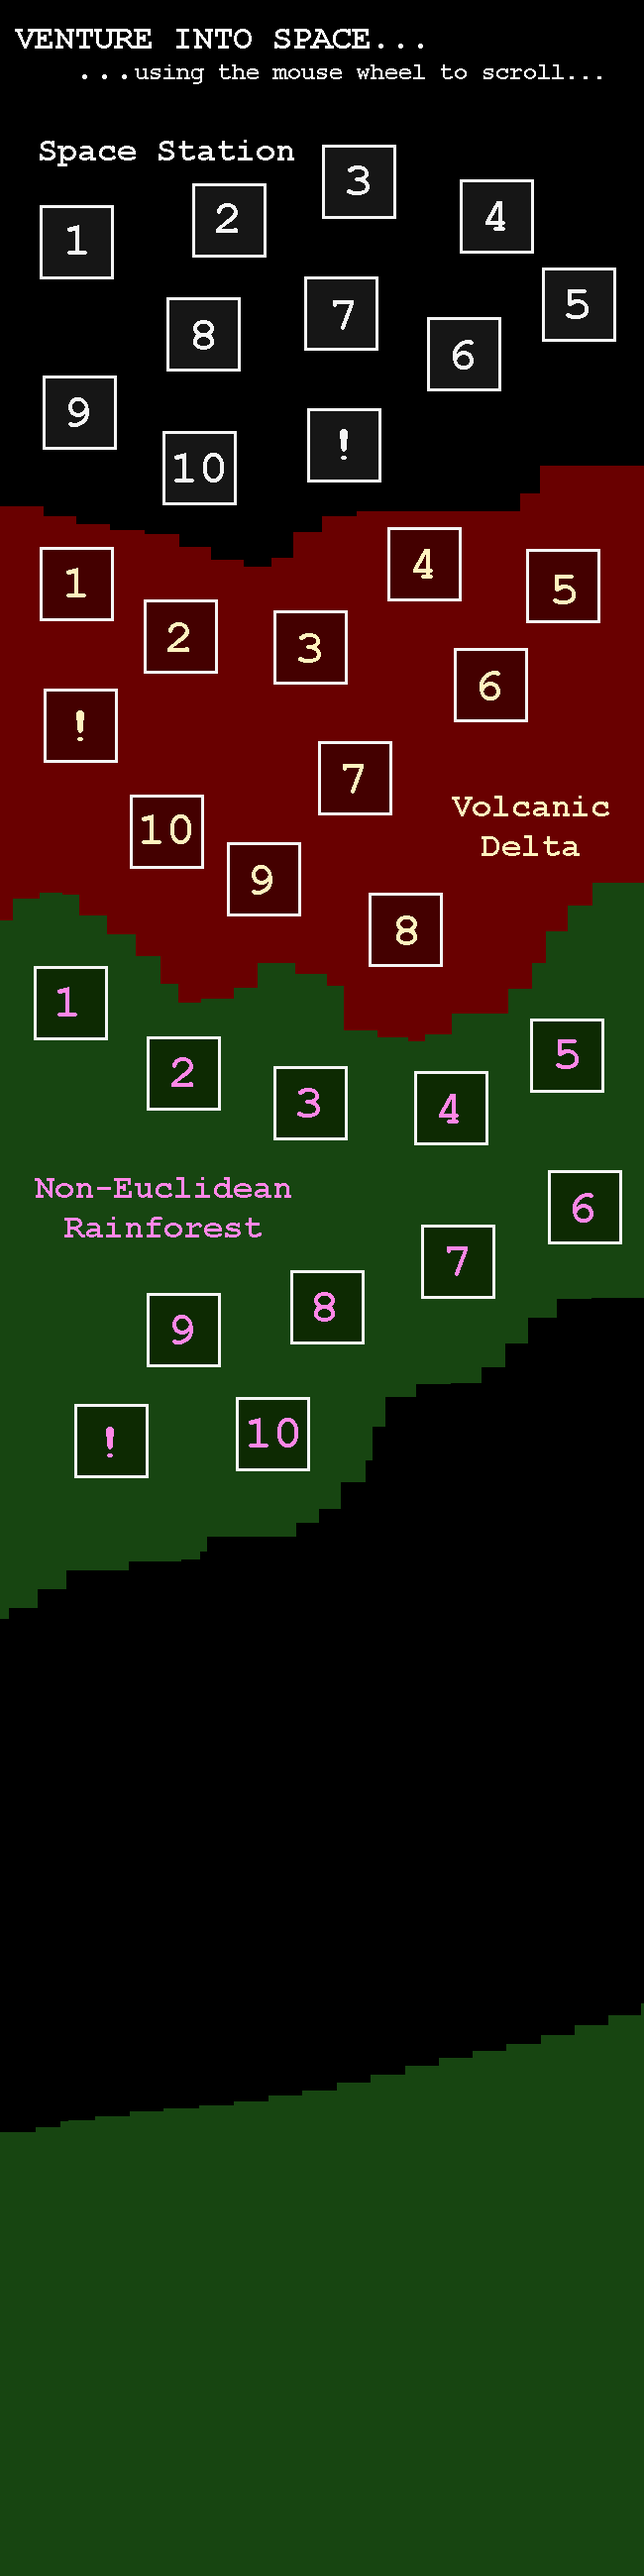
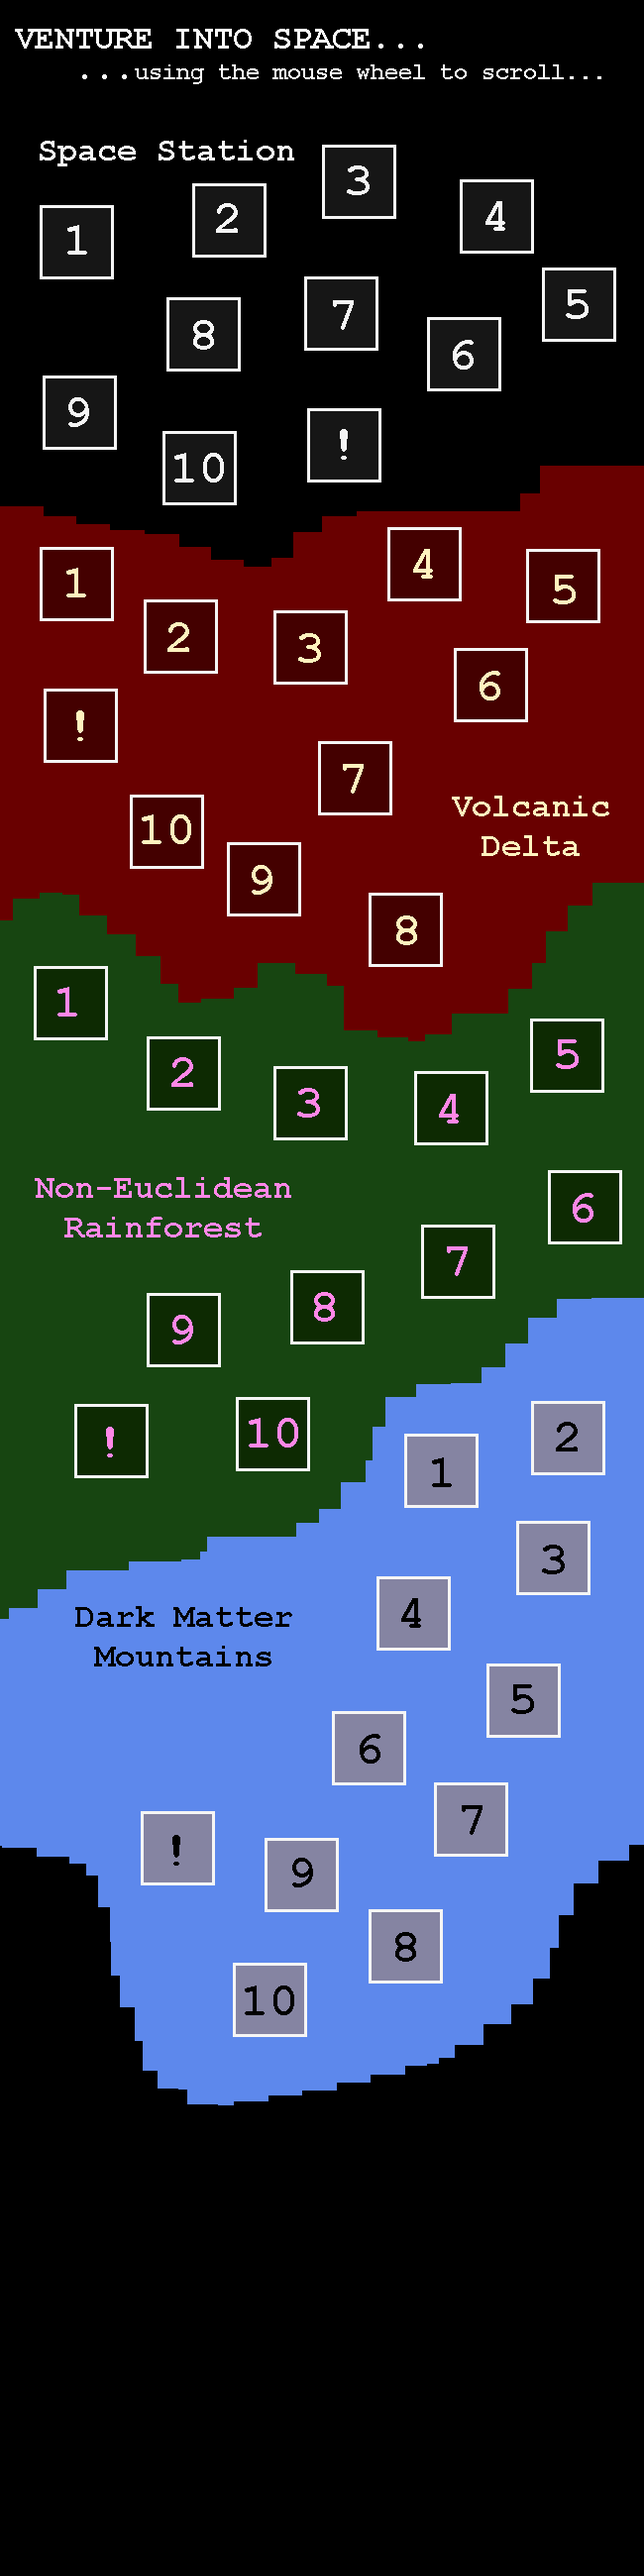
added world D

diff --git a/src/lib/premadeLevels.py b/src/lib/premadeLevels.py
@@ -589,12 +589,10 @@ C3 = level.Level(
         b.Entity(0, 0, 100, 50, (49, 87, 54)),
         b.Entity(200, 175, 250, 400, (49, 87, 54)),
         b.Entity(200, 175, 425, 225, (49, 87, 54)),
-        s.Lever(400, 325, 600, 375, "up"),
         s.Lever(0, 350, 200, 400, "up"),
         s.Teleporter(50, 475, 575, 50, 0, (144, 169, 85)),
         b.Coin(250, 600,(144, 69, 85)),
         b.Coin(450, 400,(144, 69, 85)),
-        b.Coin(400, 300,(144, 69, 85)),
         b.Coin(400, 225,(144, 69, 85)),
         b.Entity(475, 500, 650, 550, (49, 87, 54)),
         b.Entity(475, 500, 525, 650, (49, 87, 54)),
@@ -609,6 +607,8 @@ C3 = level.Level(
         b.Entity(625, 600, 650, 625, (49, 87, 54)),
         b.Entity(575, 600, 600, 625, (49, 87, 54)),
         b.Entity(600, 625, 625, 650, (49, 87, 54)),
+        b.Coin(400, 275,(144, 69, 85)),
+        s.Lever(400, 300, 600, 350, "up"),
     ],
     background = ((19, 42, 19),),
     text = "3.Rotation",
@@ -622,20 +622,18 @@ C4 = level.Level(
     levelObjects = [
         b.Entity(0, 475, 50, 650, (49, 87, 54)),
         b.Entity(600, 475, 650, 650, (49, 87, 54)),
-        b.Coin(450, 575,(144, 69, 85)),
         s.Lever(450, 275, 650, 325, "up"),
         b.Entity(0, 0, 400, 50, (49, 87, 54)),
         b.Entity(350, 0, 400, 150, (49, 87, 54)),
         s.Lever(200, 50, 250, 325, "right"),
         b.Coin(25, 250,(144, 69, 85)),
-        b.Entity(500, 0, 650, 50, (49, 87, 54)),
-        b.Coin(575, 50,(144, 69, 85)),
         s.Teleporter(325, 250, 50, 325, 0, (144, 169, 85)),
         b.Entity(0, 600, 475, 650, (49, 87, 54)),
+        b.Entity(500, 0, 650, 50, (49, 87, 54)),
     ],
     background = ((19, 42, 19),),
-    text = "4.Flip the Switch",
-    textLocation = (100, 425),
+    text = "4.Hole in One",
+    textLocation = (175, 425),
     textColor = (150, 150, 150),
 )
 C5 = level.Level(
@@ -850,10 +848,104 @@ C10 = level.Level(
 
 worldC = [C1, C2, C3, C4, C5, C6, C7, C8, C9, C10]
 
+D1 = level.Level(
+    players = [
+        p.Player(75.0, 525.0,(60, 60, 60)),
+        p.Player(75.0, 50.0,(60, 60, 60)),
+    ],
+    levelObjects = [
+        b.Entity(0, 300, 650, 350, (113, 113, 140)),
+        b.Entity(0, 550, 125, 650, (113, 113, 140)),
+        b.Entity(0, 0, 75, 175, (113, 113, 140)),
+        b.Entity(75, 0, 250, 50, (113, 113, 140)),
+        b.Entity(0, 250, 50, 300, (113, 113, 140)),
+        b.Entity(375, 350, 425, 400, (113, 113, 140)),
+        b.Entity(425, 350, 450, 450, (113, 113, 140)),
+        b.Entity(450, 350, 500, 500, (113, 113, 140)),
+        b.Entity(600, 450, 650, 600, (113, 113, 140)),
+        b.Coin(575, 350,(128, 0, 128)),
+        b.Coin(575, 275,(128, 0, 128)),
+        b.Entity(425, 225, 525, 300, (113, 113, 140)),
+        b.Entity(325, 0, 600, 50, (113, 113, 140)),
+        b.Entity(200, 475, 300, 525, (113, 113, 140)),
+        b.Entity(200, 600, 650, 650, (113, 113, 140)),
+        b.Entity(275, 475, 325, 550, (113, 113, 140)),
+        b.Entity(125, 475, 225, 650, (113, 113, 140)),
+        b.Entity(175, 50, 200, 75, (113, 113, 140)),
+        b.Entity(575, 50, 600, 75, (113, 113, 140)),
+        b.Entity(175, 50, 250, 125, (113, 113, 140)),
+        b.Entity(200, 100, 250, 200, (113, 113, 140)),
+        b.Entity(325, 125, 375, 175, (113, 113, 140)),
+        b.Entity(200, 150, 375, 200, (113, 113, 140)),
+        b.Entity(250, 0, 275, 100, (113, 113, 140)),
+        b.Entity(275, 0, 325, 25, (113, 113, 140)),
+        b.Entity(500, 350, 525, 375, (113, 113, 140)),
+        b.Entity(225, 525, 300, 600, (113, 113, 140)),
+        b.Entity(0, 525, 25, 550, (113, 113, 140)),
+        b.Entity(600, 0, 650, 150, (113, 113, 140)),
+        b.Entity(625, 150, 650, 200, (113, 113, 140)),
+    ],
+    background = (93, 136, 226),
+    text = "1.Siamese",
+    textLocation = (0, 350),
+    textColor = (30, 30, 30),
+)
+D2 = level.Level(
+    players = [
+        p.Player(50.0, 150.0,(60, 60, 60)),
+        p.Player(125.0, 575.0,(60, 60, 60)),
+    ],
+    levelObjects = [
+        b.Entity(0, 0, 50, 225, (113, 113, 140)),
+        b.Entity(125, 100, 175, 175, (113, 113, 140)),
+        b.Entity(225, 50, 300, 100, (113, 113, 140)),
+        b.Entity(250, 100, 300, 150, (113, 113, 140)),
+        b.Entity(50, 0, 650, 50, (113, 113, 140)),
+        b.Entity(50, 50, 75, 75, (113, 113, 140)),
+        b.Entity(350, 75, 375, 175, (113, 113, 140)),
+        b.Entity(375, 125, 400, 175, (113, 113, 140)),
+        b.Entity(50, 175, 650, 225, (113, 113, 140)),
+        b.Entity(450, 50, 500, 125, (113, 113, 140)),
+        b.Entity(400, 150, 575, 175, (113, 113, 140)),
+        b.Entity(575, 125, 625, 175, (113, 113, 140)),
+        b.Entity(500, 50, 525, 100, (113, 113, 140)),
+        b.Entity(500, 50, 600, 75, (113, 113, 140)),
+        b.Entity(0, 600, 200, 650, (113, 113, 140)),
+        b.Entity(0, 350, 50, 600, (113, 113, 140)),
+        s.Tar(50, 350, 75, 525, "left"),
+        b.Entity(275, 225, 375, 250, (113, 113, 140)),
+        b.Entity(275, 575, 325, 650, (113, 113, 140)),
+        b.Entity(0, 225, 175, 325, (113, 113, 140)),
+        b.Entity(150, 225, 275, 300, (113, 113, 140)),
+        b.Entity(0, 325, 150, 350, (113, 113, 140)),
+        s.Tar(325, 125, 350, 175, "right"),
+        b.Coin(550, 300,(128, 0, 128)),
+        b.Coin(625, 75,(128, 0, 128)),
+    ],
+    background = (93, 136, 226),
+    text = "2.Tar Pits",
+    textLocation = (300, 425),
+    textColor = (30, 30, 30),
+)
+D3 = level.Level()
+D4 = level.Level()
+D5 = level.Level()
+D6 = level.Level()
+D7 = level.Level()
+D8 = level.Level()
+D9 = level.Level()
+D10 = level.Level()
+
+worldD = [D1, D2, D3, D4, D5, D6, D7, D8, D9, D10]
+
+for l in worldD:
+    l.background = colorsWorldD["background"]
+
 worldInfo = [
     (worldA, levelSelectWorldA),
     (worldB, levelSelectWorldB),
     (worldC, levelSelectWorldC),
+    (worldD, levelSelectWorldD),
 ]
 
 '''

diff --git a/src/lib/gameStateInfo.py b/src/lib/gameStateInfo.py
@@ -113,6 +113,11 @@ class GameStateInfo:
     
         
     def processGameplay(self, event: pygame.event.Event):
+        # For multiple players, check if everyone is stopped.
+        allStopped = True
+        for p in self.level.players:
+            if p.direction != "stop":
+                allStopped = False
         # Clicking the mouse
         if event.type == pygame.MOUSEBUTTONDOWN:
             if event.button == 2:
@@ -124,11 +129,10 @@ class GameStateInfo:
                 pass
             elif event.key == pygame.K_r:
                 self.level.reset()
-            elif event.key in [pygame.K_DOWN, pygame.K_UP, pygame.K_LEFT, pygame.K_RIGHT,
-                             pygame.K_w, pygame.K_s, pygame.K_a, pygame.K_d]:
+            elif (event.key in [pygame.K_DOWN, pygame.K_UP, pygame.K_LEFT, pygame.K_RIGHT,
+                             pygame.K_w, pygame.K_s, pygame.K_a, pygame.K_d]) and allStopped:
                 for p in self.level.players:
-                    if p.direction == "stop":
-                        p.keyMove(event.key)
+                    p.keyMove(event.key)
             elif event.key == pygame.K_ESCAPE:
                 self.mode = "Title Screen"
     
@@ -196,6 +200,9 @@ class GameStateInfo:
                                                             b[0], b[1]))
             elif event.key == pygame.K_l:
                 self.level.levelObjects.append(special.Lever(a[0], a[1], 
+                                                            b[0], b[1], self.editDirection))
+            elif event.key == pygame.K_r:
+                self.level.levelObjects.append(special.Tar(a[0], a[1], 
                                                             b[0], b[1], self.editDirection))
             elif event.key == pygame.K_p:
                 self.level.players.append(player.Player(a[0], a[1], self.colors["player"], self.gridSize))
@@ -272,6 +279,8 @@ class GameStateInfo:
             self.colors = colorsWorldB
         elif destination == worldC:
             self.colors = colorsWorldC
+        elif destination == worldD:
+            self.colors = colorsWorldD
                    
         
         

diff --git a/src/lib/specialEntities.py b/src/lib/specialEntities.py
@@ -218,3 +218,27 @@ class Lever(Entity):
         return("s.Lever(" + str(self.x1) + ", " + str(self.y1) + ", " + str(self.x2) + ", " + str(self.y2) + ", \"" + self.direction + "\")")
     def copy(self):
         return(Lever(self.x1, self.y1, self.x2, self.y2, self.direction, (self.color[0], self.color[1], self.color[2])))
+    
+
+class Tar(Entity):
+    def __init__(self, x1, y1, x2, y2, direction = "up", color = (47, 79, 79)):
+        super().__init__(x1, y1, x2, y2, color)
+        self.direction = direction
+    def collide(self, player: p.Player) -> bool:
+        # Players stick to tar
+        if(self.isTouching(player) and player.direction == u.invert(self.direction)):
+            player.stop()
+        
+    def display(self, screen):
+        if self.direction == "up":
+            u.betterRect(screen, self.x1, self.y1, self.x2, (self.y1 + self.y2) // 2, self.color, 0)
+        elif self.direction == "down":
+            u.betterRect(screen, self.x1, (self.y1 + self.y2) // 2, self.x2, self.y2, self.color, 0)
+        elif self.direction == "right":
+            u.betterRect(screen, (self.x2 + self.x1) // 2, self.y1, self.x2, self.y2, self.color, 0)
+        elif self.direction == "left":
+            u.betterRect(screen, self.x1, self.y1, (self.x2 + self.x1) // 2, self.y2, self.color, 0)
+    def toString(self):
+        return("s.Tar(" + str(self.x1) + ", " + str(self.y1) + ", " + str(self.x2) + ", " + str(self.y2) + ", \"" + self.direction + "\")")
+    def copy(self):
+        return(Tar(self.x1, self.y1, self.x2, self.y2, self.direction, (self.color[0], self.color[1], self.color[2])))

diff --git a/src/lib/constants.py b/src/lib/constants.py
@@ -34,6 +34,16 @@ colorsWorldC = {
     "text" : (150, 150, 150),
 }
 
+colorsWorldD = {
+    "platform" : (113, 113, 140),
+    "player" : (60, 60, 60),
+    "special" : (144, 169, 85),
+    "coin" : (128, 0, 128),
+    "cloud" : (255, 255, 224),
+    "background" : (93, 136, 226),
+    "text" : (30, 30, 30),
+}
+
 GLOBALCOLORS = colorsWorldA
 
 LEVEL_SQUARE_SIZE = 75
@@ -75,4 +85,18 @@ levelSelectWorldC = [
 (293, 1283),
 (149, 1306),
 (239, 1410),
+]
+
+
+levelSelectWorldD = [
+(410, 1449),
+(537, 1415),
+(522, 1537),
+(381, 1593),
+(492, 1681),
+(337, 1729),
+(439, 1801),
+(374, 1929),
+(267, 1856),
+(237, 1982),
 ]

diff --git a/README.md b/README.md
@@ -28,6 +28,7 @@ Non-platform objects take up only one 25x25 pixel square each, so they only depe
 Some objects face a direction. To set the direction of an object you are about to place, use an arrow key. Then,
 * Redirector (from Volcanic Delta): i 
 * Lever (from Non-Euclidean Rainforest): l
+* Tar (from Dark Matter Mountains): r
 ## Teleporters
 Use the t key to create a set of two teleporters. The top-left corners of each part of the teleporter are determined by the two editor pointers. It is recommended to only have one set, since they all look the same, but multiple sets will function just fine.
 ### Limited-Use Teleporters
@@ -42,6 +43,10 @@ What you see in levelDump is literally the code needed to be executed to create 
 With your primary pointer on the top-left location of where you want your text, press TAB. Then, input your desired text into the terminal. (This feature uses Python's input() function.) The text should appear on screen.
 
 # New Features and Changelog
+## Version 1.2 (6/25/2024):
+* World C complete.
+* Added world D.
+* Added a new mechanic: Tar.
 ## Version 1.1 (6/24/2024):
 * Added all of world C except for levels 9 and 10. These levels are getting tough!
 * Added a new concept to World C: Teleporters with limited uses.
@@ -53,7 +58,7 @@ With your primary pointer on the top-left location of where you want your text, 
 * The title screen and level select page are fully functional. However, the "!" levels have not been added yet. They are intended to be challenge levels; these will be significantly harder than the main game and optional.
 * There is still no save file, so everything is unlocked right at the start.
 * All mechanics and objects from the original 2018 game are implemented.
-## Plans for Next Version: 1.2
-* Finish world C.
+## Plans for Future Versions
+* Finish world D.
 * Add a challenge level or two.
 * Fix the editor pointer bug mentioned above.
